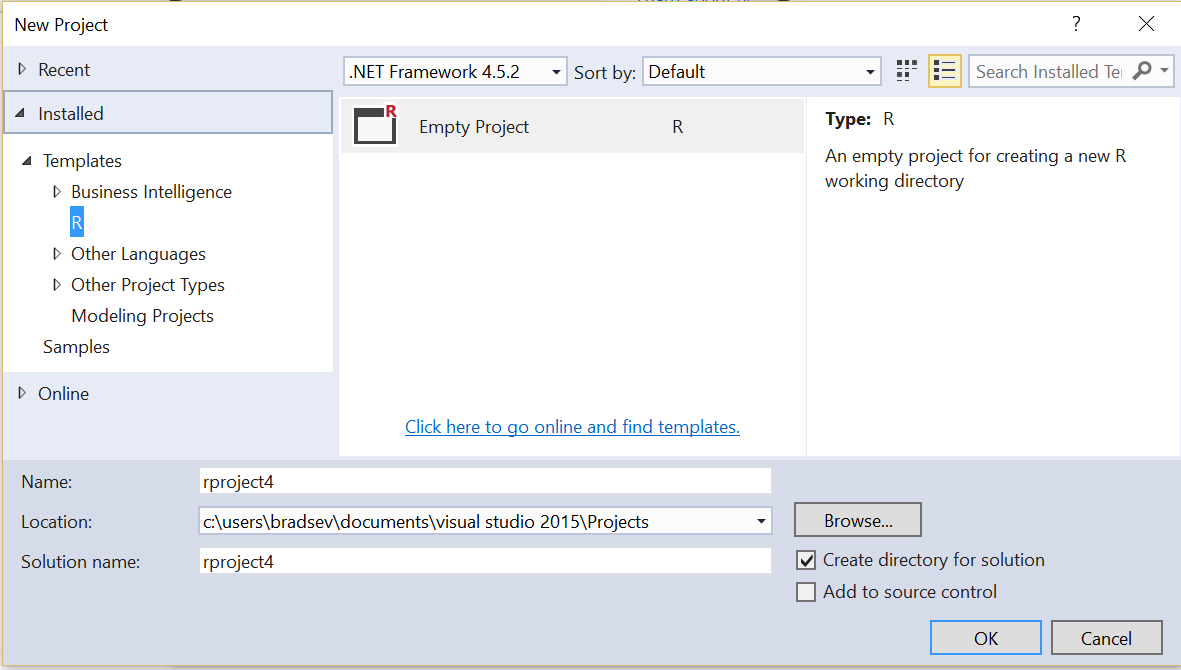
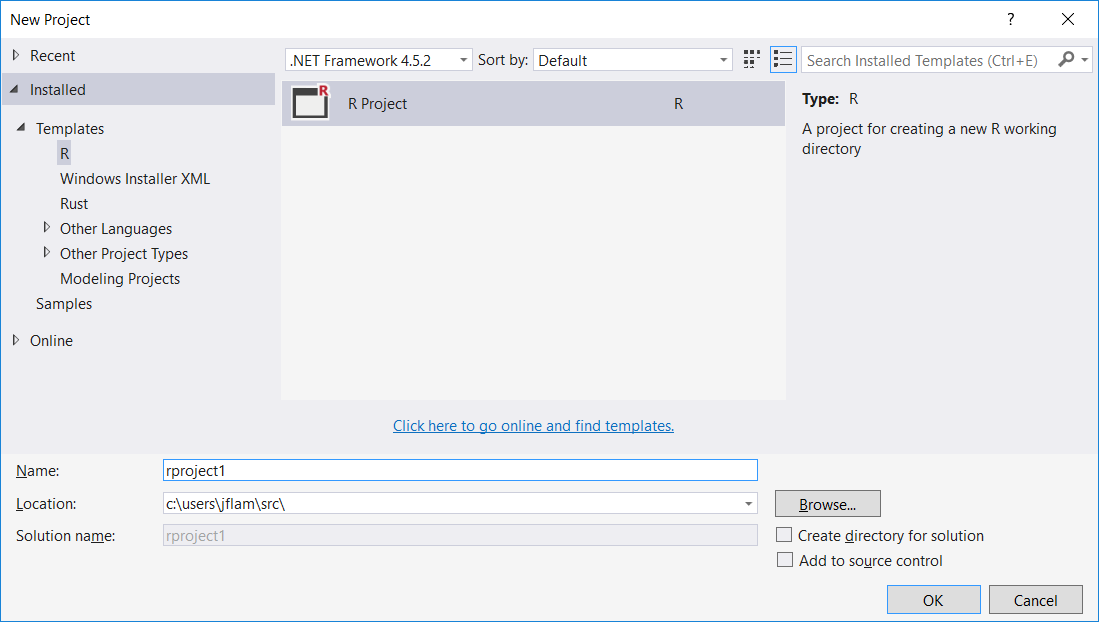
Documentation bug fixes reported by team

diff --git a/plotting.md b/plotting.md
@@ -2,9 +2,10 @@
 layout: default
 ---
 
-#Plotting
+# Plotting
 
-We have support for generating R plots as part of the interactive programming experience.  Here's a command that generates a simple linear XY plot:
+We have support for generating R plots as part of the interactive programming
+experience.  Here's a command that generates a simple linear XY plot:
 
 `> plot(1:100)`
 
@@ -12,7 +13,9 @@ It creates a new Visual Studio **R Plot** window that contains the plot figure:
 
 ![Linear plot](./media/RTVS-plotting-1to100.png)
  
-Since the plot window is a Visual Studio tool window, it supports all of the standard tool window operations such as tearing off the window into its own top level window:
+Since the plot window is a Visual Studio tool window, it supports all of the
+standard tool window operations such as tearing off the window into its own top
+level window:
 
 ![Tear off window](./media/RTVS-plotting-tear-off-window.png)
  
@@ -23,4 +26,3 @@ Docking it in various parts of the IDE:
 The plot window will resize the contained plot as the window is resized:
 
 ![Resize window](./media/RTVS-plotting-resize-window.png)
-

diff --git a/editing.md b/editing.md
@@ -15,7 +15,7 @@ from the Visual Studio gallery.
 ## Editing window
 
 When you are writing code in the editor, we will pop up IntelliSense for
-both library functions as well as user-defined functions: 
+both library functions: 
  
 ![](./media/RTVS-Editing-auto-completion.png)
  
@@ -101,7 +101,8 @@ There are a number of configurable options here:
 
 - **CRAN Mirror** controls which CRAN mirror to download packages from by default.
 
-- **R Engine**  
+- **R Engine** is set to the directory of your R installation. If you change
+  this setting, please restart Visual Studio.
 
 - **Send to R Console shortcut** lets the user redefine what keyboard shortcut
 sends the current editor selection to the REPL.

diff --git a/start-project.md b/start-project.md
@@ -6,8 +6,11 @@ layout: default
 
 1. Start Visual Studio 2015
 2. Choose **File** -> **New** -> **Project...**
-3. Select the Empty Project from the R templates.
-![](./media/RTVS-OpenProject-Template.PNG)
+3. Select the R Project from the R templates.
+   ![](./media/RTVS-OpenProject-Template.PNG)
+
 4. Name the project in the **Name:** box.
-5. Test that the R **Interactive** pane is working by typing in 5 + 7 and then **Enter** to see the answer displayed.
+5. Test that the R **Interactive** pane is working by typing in 3 + 4 and then
+   **Enter** to see the answer displayed.
+
 ![](./media/RTVS-OpenProject-Test.PNG)

diff --git a/rmarkdown.md b/rmarkdown.md
@@ -5,22 +5,18 @@ layout: default
 # R Markdown
 
 
-To use R Markdown, you should firt install pandoc:
+To use R Markdown, you should first install pandoc:
 
 [Install Pandoc from pandoc.org](http://pandoc.org/installing.html)
 
 You will also need to install the knitr and rmarkdown packages:
-
 
 {% highlight R %}
 install.packages("knitr")
 install.packages("rmarkdown")
 {% endhighlight %}
 
-
-
 Next, to create an R Markdown file, go to File/New and select R Markdown:
-
 
 ![R Markdown New file](./media/rmarkdown.new.file.png)
 
